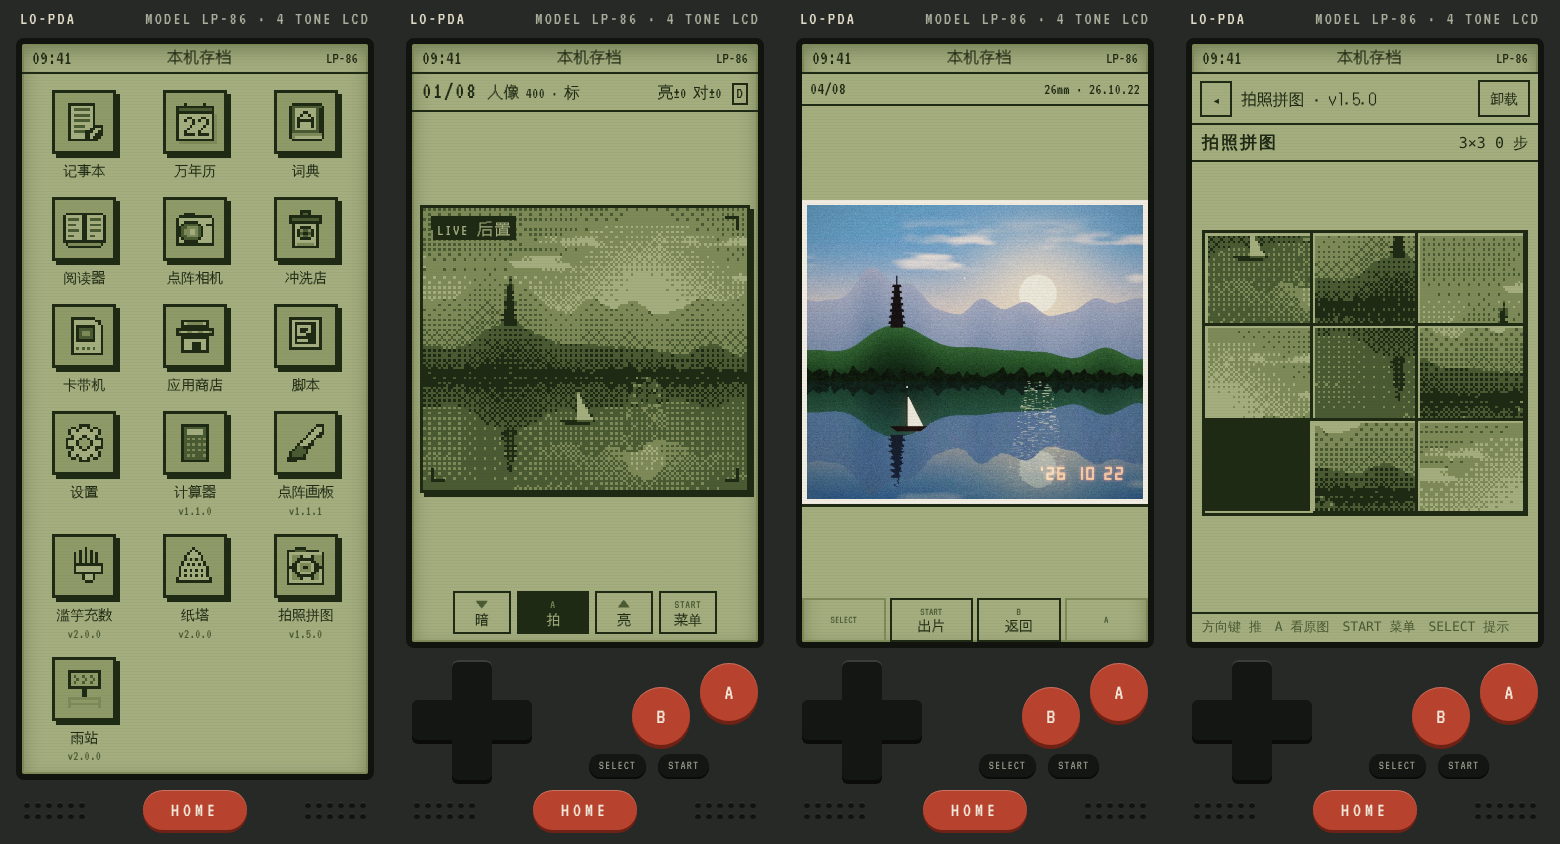
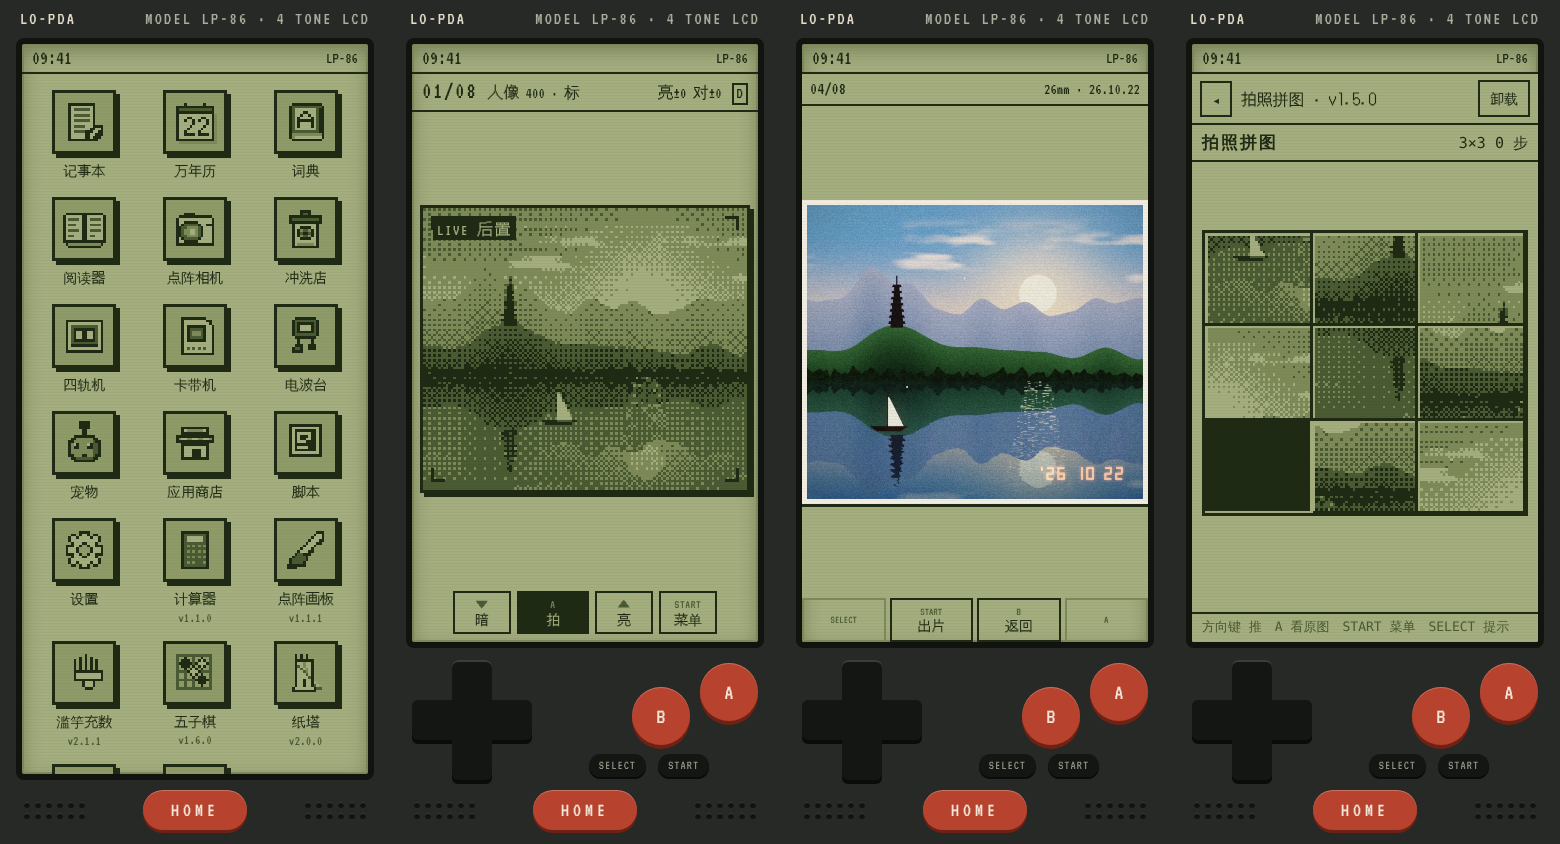
README: 22 apps, Pet and Tape4, the AI line, spec 1.0; fresh screenshots
- README.md / README.zh.md: Pet and Tape4 in the built-in table, a new row of
  screens (pet, Tape4, Radio, Gomoku), 22 store apps, PAD.dict and wordbook in
  the app table, the spec frozen as 1.0, and "Your data" names both things that
  go online (the calendar's holiday table, the optional OpenRouter AI line).
- tools/readme-shots.mjs: confirms the store's install dialog (section 42),
  scrolls the home screen back to the top, and shoots the pet (?debug hatch),
  a copy of the 茉莉花 demo tape, a Radio link over ?linkfake between two tabs,
  and Gomoku by touch into more.png.
- All README pictures regenerated in English and Chinese. No runtime change.

Claude-Session: https://claude.ai/code/session_01DFPvMyEfsJif6yjd92FZKQ

diff --git a/README.md b/README.md
@@ -10,8 +10,9 @@ A four-tone handheld that lives on your phone. Hi-PDA's low-fidelity cousin.
 
 Lo-PDA is a Progressive Web App styled as a fictional 1986 PDA: a green LCD that shows four tones and nothing else,
 a D-pad, A and B, SELECT and START on its chin, and a HOME key. It comes with a film camera and a darkroom, a diary,
-a calendar, a dictionary, a book reader, a cartridge player and a store of small community apps. Everything runs
-and is saved on the phone. There are no accounts, no ads and no tracking, and it works offline.
+a calendar, a dictionary, a book reader, a pet that lives in the handheld, a four-track tape machine, a cartridge
+player and a store of small community apps. Everything runs and is saved on the phone. There are no accounts, no ads
+and no tracking, and it works offline. The app spec is frozen as 1.0, so apps written today keep working.
 
 ## Shot on Lo-PDA
 
@@ -43,25 +44,29 @@ The seven stocks on one photo, same roll and same development, only the stock ch
 | Calendar | 万年历 | Gregorian and lunar calendar with solar terms, 1900–2100, China's public holidays and days off, your own anniversaries. Days with a diary get a folded corner. |
 | Dictionary | 词典 | English–Chinese, built in and offline (abridged ECDICT). Import StarDict dictionaries; a word book for review; A says the word aloud. |
 | Reader | 阅读器 | TXT and EPUB books, your own fonts, an e-ink style full refresh. Select text to look it up or quote it into Notes. Two public-domain books included. |
+| Pet | 宠物 | A small creature that hatches once, gets a name for life and lives in a room on the screen. It eats, plays, sleeps at night, grows up, and some days comes home with a souvenir for its shelf. It never dies. |
+| Tape4 | 四轨机 | A four-track tape machine: drums, bass, chords and melody, 64 patterns chained into a song, swing and tape colour, a mixer, a tape library with four demo tunes, WAV export. |
 | Camera | 点阵相机 | Live dithered viewfinder, rolls of film, seven stocks, every lens on the phone. |
 | Darkroom | 冲洗店 | The film box: develop, view in colour, print, export and import negatives. |
 | Cartridge | 卡带机 | Plays black-and-white Game Boy files you supply, with the chin buttons. Saves can be exported and imported. No games are included. |
 | Radio | 电波台 | Experimental. Two handhelds talk over sound, like a 1986 modem: both press Link, then send short text and 16 × 16 pictures. Slow on purpose. |
-| Store | 应用商店 | Install, update and run community apps, by category. |
+| Store | 应用商店 | Install, update and run community apps, by category, with search. |
 | Scripts | 脚本 | Your own small HTML/JS programs: copy a prompt for an AI, paste the code back, run it in the sandbox. |
-| Settings | 设置 | Sound, volume, language (中文 / English), which apps may use the sensors and camera, backup and restore of the whole device, updates. |
+| Settings | 设置 | Sound, volume, language (中文 / English), which apps may use the sensors and camera, app saves, backup and restore of the whole device, the optional AI line, updates. |
+
+![The pet in its room, a demo tune in Tape4, a short exchange in Radio with a 16 × 16 picture of a boat, and Gomoku](docs/images/more.png)
 
 ## The app store
 
 ![Three store apps in play, Paper Tower, Fake Yu and Rain Station, and the store's list](docs/images/apps.png)
 
-Seventeen apps today, all open source and all made for Lo-PDA:
+Twenty-two apps today, all open source and all made for Lo-PDA:
 
 | Kind | Apps |
 |---|---|
-| Games | Paper Tower (a ten-minute tower climb), Fake Yu (a one-key rhythm story), SnapTile (a sliding puzzle from your own photo), Marble (tilt the phone), Candles (blow into the mic), Gomoku (also a two-handheld match over sound), Mole Bop, Gold Dig (a sixty-second hook-and-haul mine), Pagoda (a 3D prologue), Sisyphus (a meditative climb with sixteen lines from Camus) |
+| Games | Paper Tower (a ten-minute tower climb), Fake Yu (a one-key rhythm story), SnapTile (a sliding puzzle from your own photo), Marble (tilt the phone), Candles (blow into the mic), Gomoku (also a two-handheld match over sound), Mole Bop, Gold Dig (a sixty-second hook-and-haul mine), Pagoda (a 3D prologue), Sisyphus (a meditative climb with sixteen lines from Camus), Crossing (spell words on a wheel to fill a crossword), DailyBox (one crate-pushing puzzle a day), Klotski (the sliding-block escape), Foothill (seven days running a mountain diner) |
 | Story | Rain Station, a visual novel with seven chapters and five endings |
-| Tools and toys | Calc and Paint (both preinstalled), Fortune, Kana, Sounds, VecDream |
+| Tools and toys | Calc and Paint (both preinstalled), Fortune, Kana, Sounds, VecDream, LuckyWay (hold the phone flat like a compass) |
 
 Preinstalled apps are ordinary store apps: remove them and they stay removed; the store has them again.
 
@@ -72,11 +77,12 @@ and no storage of its own, and talks to the handheld through a small `PAD` objec
 
 | | What an app can use |
 |---|---|
-| Always | The buttons, 256 KB of saved data, named sounds, chip music in MML, custom sound effects, ambience (rain, waves, fire…), the language, `PAD.say` to speak a line |
-| With a permission | `files` (export and import one file), `motion` (tilt and shake), `mic` (loudness and pitch, never the recording), `notes` (write into Notes), `camera` (one four-tone photo through the handheld's own viewfinder), `link` (messages to the same app on another handheld, over sound; Gomoku's match is the example) |
+| Always | The buttons, 256 KB of saved data, named sounds, chip music in MML, custom sound effects, ambience (rain, waves, fire…), the language, `PAD.say` to speak a line, `PAD.dict` (words and meanings from the built-in English dictionary) |
+| With a permission | `files` (export and import one file), `motion` (tilt and shake), `mic` (loudness and pitch, never the recording), `notes` (write into Notes), `camera` (one four-tone photo through the handheld's own viewfinder), `wordbook` (the player's own word book), and the experimental `link` (messages to the same app on another handheld, over sound; Gomoku's match is the example) |
 
 Every permission is asked by the handheld itself, not by the app, and the player can say no; apps must still work
-with the keys. The full rules are in [`SPEC.md`](SPEC.md) (spec `lopda/1`); the screen layout rules are in
+with the keys. The full rules are in [`SPEC.md`](SPEC.md) (spec `lopda/1`, frozen as 1.0: everything in it except `link` will
+not change in a way that breaks an app); the screen layout rules are in
 [`sdk/UI.md`](sdk/UI.md).
 
 ```sh
@@ -100,8 +106,13 @@ node tools/build-index.mjs
 Everything stays in the phone's browser storage. Settings → Backup writes the whole device (notes, rolls and their
 colour originals, books, dictionaries, cartridge saves, app data) into one `lopda-backup-YYYYMMDD.zip`, and Restore
 puts it back after checking it first. Removing an app keeps its saves; Settings → App saves lists them and clears
-them, and a reinstall of the same app carries on. The only built-in that goes online is the calendar, which fetches next year's
-table of China's holidays from jsDelivr when it is missing (the tables up to now ship with the app). Apps cannot reach the network at all.
+them, and a reinstall of the same app carries on.
+
+Two things go online, and only these two. The calendar fetches next year's table of China's holidays from jsDelivr
+when it is missing (the tables up to now ship with the app). And if you add your own OpenRouter key in Settings → AI
+line (off until you do), Scripts can write a program for you, Tape4 can edit a tape with you and the pet can bring home
+a souvenir it made up. Each request carries only what it needs (the script you asked for, the tape being edited, the
+pet's mood and the season), never your notes or photos, and the key is not in the backup. Apps cannot reach the network at all.
 
 ## Run it locally
 
@@ -147,7 +158,7 @@ Every change should take a decision away from the user, or at least not add one.
 no previews, one development per roll, frames you can't edit. The limits are the point.
 Why things are the way they are: [`docs/decisions.md`](docs/decisions.md).
 
-<sub>The screenshots were made in a desktop browser by `tools/readme-shots.mjs` (`--lang=zh` for the Chinese ones), with the camera fed a lake drawn in code.</sub>
+<sub>The screenshots were made in a desktop browser by `tools/readme-shots.mjs` (`--lang=zh` for the Chinese ones), with the camera fed a lake drawn in code. The Radio shot is two tabs of one browser talking through a stand-in for the sound link.</sub>
 
 ## License
 
